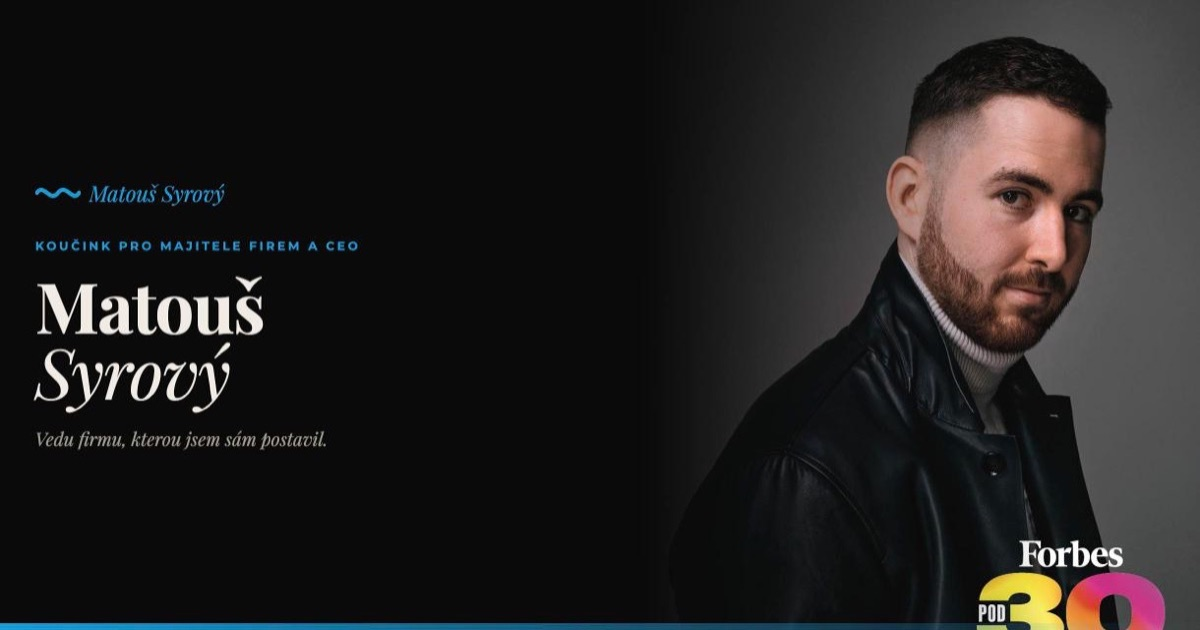
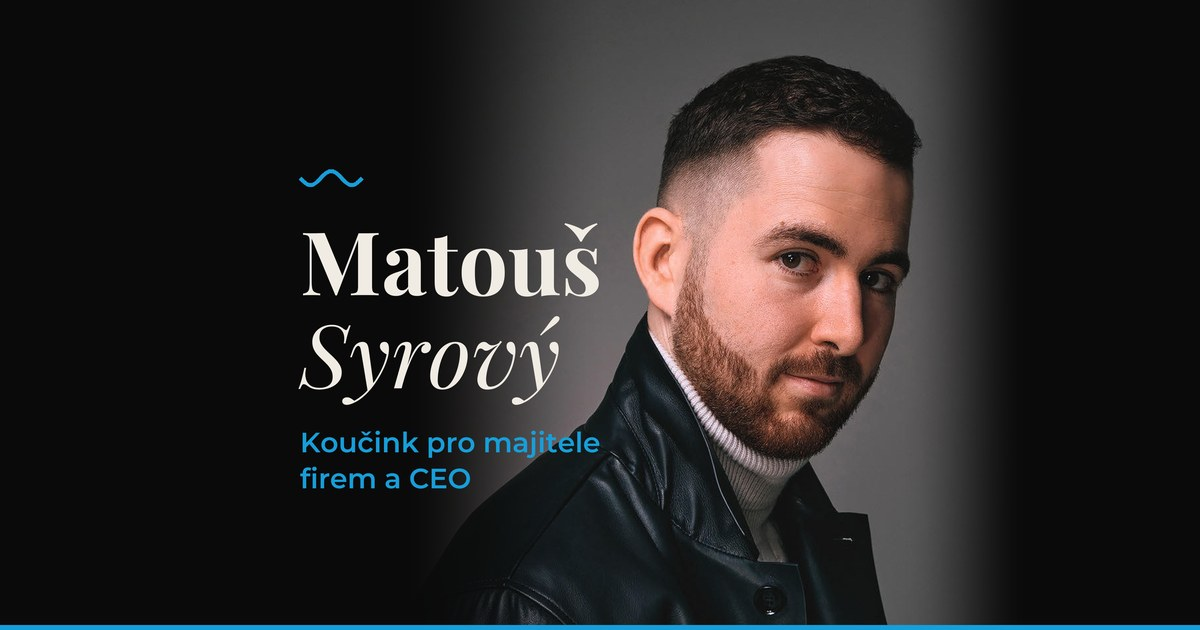
redesign share image for centre crop

diff --git a/index.html b/index.html
@@ -19,7 +19,7 @@
 <meta property="og:url" content="https://www.syrovygroup.cz/">
 <meta property="og:title" content="Matouš Syrový | Koučink pro majitele firem a CEO">
 <meta property="og:description" content="Vedu firmu, kterou jsem sám postavil. To, co spolu budeme řešit, jsem si nejdřív odžil. Úvodní konzultace 15 minut zdarma.">
-<meta property="og:image" content="https://www.syrovygroup.cz/img/og-matous-syrovy.jpg">
+<meta property="og:image" content="https://www.syrovygroup.cz/img/og-matous-syrovy.jpg?v=2">
 <meta property="og:image:width" content="1200">
 <meta property="og:image:height" content="630">
 <meta property="og:image:alt" content="Matouš Syrový, koučink pro majitele firem a CEO">
@@ -28,7 +28,7 @@
 <meta name="twitter:card" content="summary_large_image">
 <meta name="twitter:title" content="Matouš Syrový | Koučink pro majitele firem a CEO">
 <meta name="twitter:description" content="Vedu firmu, kterou jsem sám postavil. To, co spolu budeme řešit, jsem si nejdřív odžil.">
-<meta name="twitter:image" content="https://www.syrovygroup.cz/img/og-matous-syrovy.jpg">
+<meta name="twitter:image" content="https://www.syrovygroup.cz/img/og-matous-syrovy.jpg?v=2">
 
 <meta name="theme-color" content="#0a0a0a">
 
